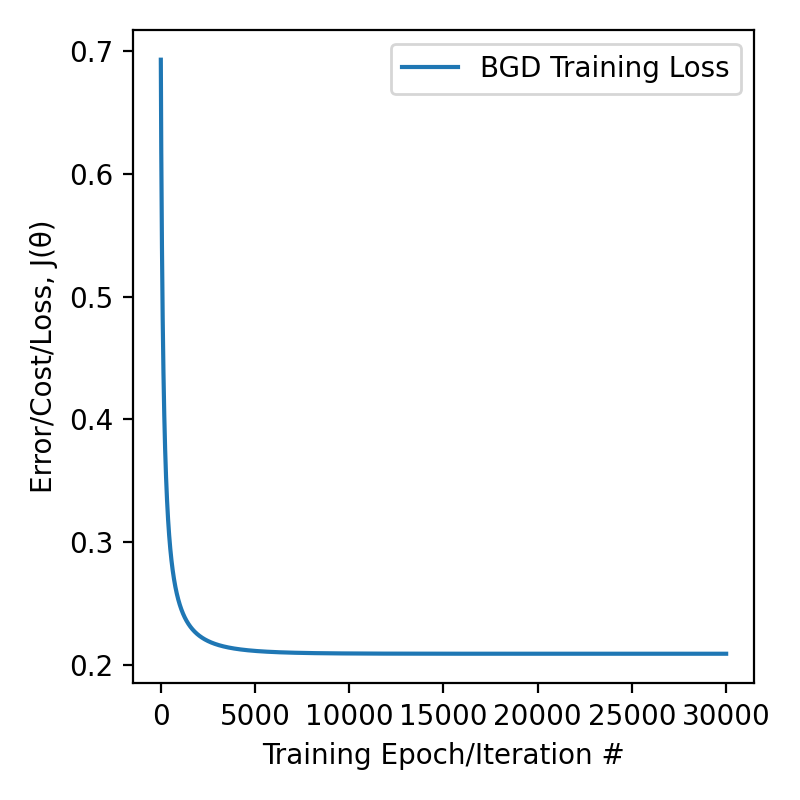
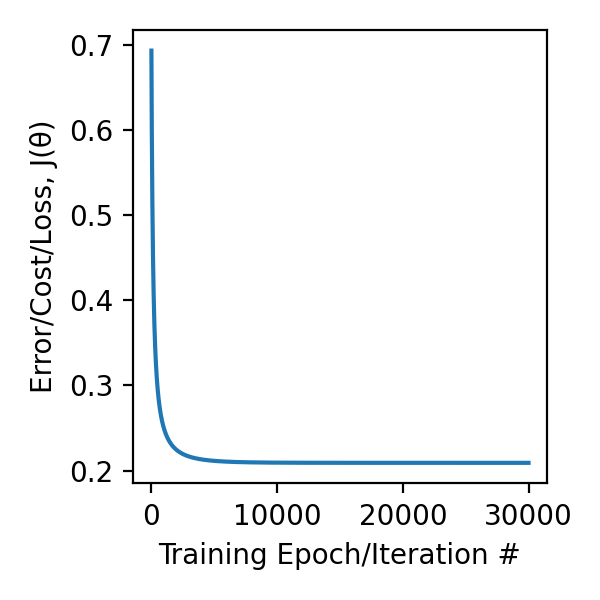
Update

Changed region(s): [[0.03, 0.03, 0.96, 0.96]]

diff --git a/machlearn/gradient_descent/_gradient_descent.py b/machlearn/gradient_descent/_gradient_descent.py
@@ -101,9 +101,9 @@ class batch_gradient_descent(object):
     def plot_training_history(self):
         import matplotlib.pyplot as plt
         # construct a figure that plots the loss over time
-        plt.figure(figsize=(4, 4))
-        plt.plot(np.arange(0, self.num_iter), self.cost_history, label='BGD Training Loss')
-        plt.legend(loc=1)
+        plt.figure(figsize=(3, 3))
+        plt.plot(np.arange(0, self.num_iter), self.cost_history) #, label='BGD Training Loss')
+        #plt.legend(loc=1)
         plt.xlabel("Training Epoch/Iteration #")
         plt.ylabel("Error/Cost/Loss, J(θ)")
         plt.tight_layout()
